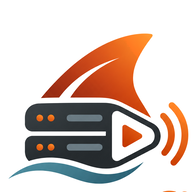
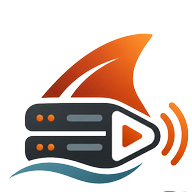
docs: usa o logotipo com fundo transparente
Remove o fundo branco externo preservando os contornos internos e gera uma
variante com o texto claro; o README escolhe a versão pelo tema do leitor.

diff --git a/CHANGELOG.md b/CHANGELOG.md
@@ -6,7 +6,7 @@ versionamento [SemVer](https://semver.org/lang/pt-BR/) (na série 0.x, mudanças
 ## [Não lançado]
 
 ### Adicionado
-- Logotipo do projeto no `README`, no painel (cabeçalho e ícone da aba) e em `docs/assets/` (inclui uma imagem de pré-visualização social).
+- Logotipo do projeto, com fundo transparente e uma variante para temas escuros, no `README` (que troca sozinho conforme o tema), no painel (cabeçalho e ícone da aba) e em `docs/assets/`, com uma imagem de pré-visualização social.
 
 ### Alterado
 - Documentação reorganizada em `docs/`: configuração, usuários e segurança, reprodução, clientes, arquitetura, API, solução de problemas, desempenho (antes `BENCHMARK.md`) e desenvolvimento. O `README` virou uma apresentação com início rápido e índice.

diff --git a/docs/api.md b/docs/api.md
@@ -85,7 +85,7 @@ Usada por `/admin`. Segue as mesmas regras de acesso do painel (rede local e, se
 
 | Rota | Descrição |
 |---|---|
-| `GET /admin` | Página do painel; `/admin/favicon.png` e `/admin/logo.png` são os ícones |
+| `GET /admin` | Página do painel; `/admin/favicon.png`, `/admin/logo.png` e `/admin/logo-dark.png` são os ícones |
 | `GET /admin/api/status` | Contagens, `ffmpeg`, TMDB, descoberta e último scan |
 | `POST /admin/api/scan` | Inicia uma varredura imediata |
 | `GET /admin/api/browse?path=...` | Lista as subpastas de um caminho (seletor de pastas) |

diff --git a/docs/desenvolvimento.md b/docs/desenvolvimento.md
@@ -85,4 +85,5 @@ ferramenta de migração externa. Valores derivados (como o TMDB de itens antigo
 
 ## Imagens do projeto
 
-O logotipo e os ícones estão em `docs/assets/`. `src/assets/` guarda as versões embutidas no binário (ícone do painel).
+O logotipo (`logo.png`, com fundo transparente, e `logo-dark.png`, com o texto claro para temas escuros) e os ícones
+estão em `docs/assets/`. `src/assets/` guarda as versões embutidas no binário (ícone do painel, claro e escuro).

diff --git a/README.md b/README.md
@@ -1,6 +1,9 @@
 <div align="center">
 
-<img src="docs/assets/logo.png" alt="Rustyfin" width="240">
+<picture>
+  <source media="(prefers-color-scheme: dark)" srcset="docs/assets/logo-dark.png">
+  <img src="docs/assets/logo.png" alt="Rustyfin" width="240">
+</picture>
 
 ### Servidor de mídia ultraleve em Rust, compatível com os apps do Jellyfin
 
